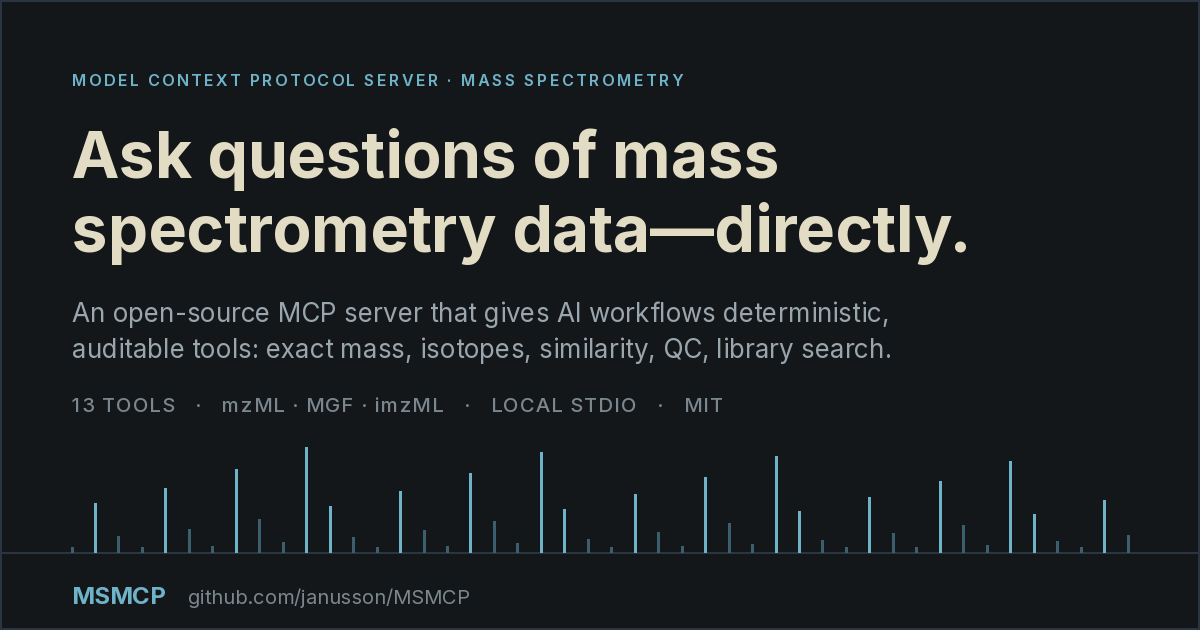
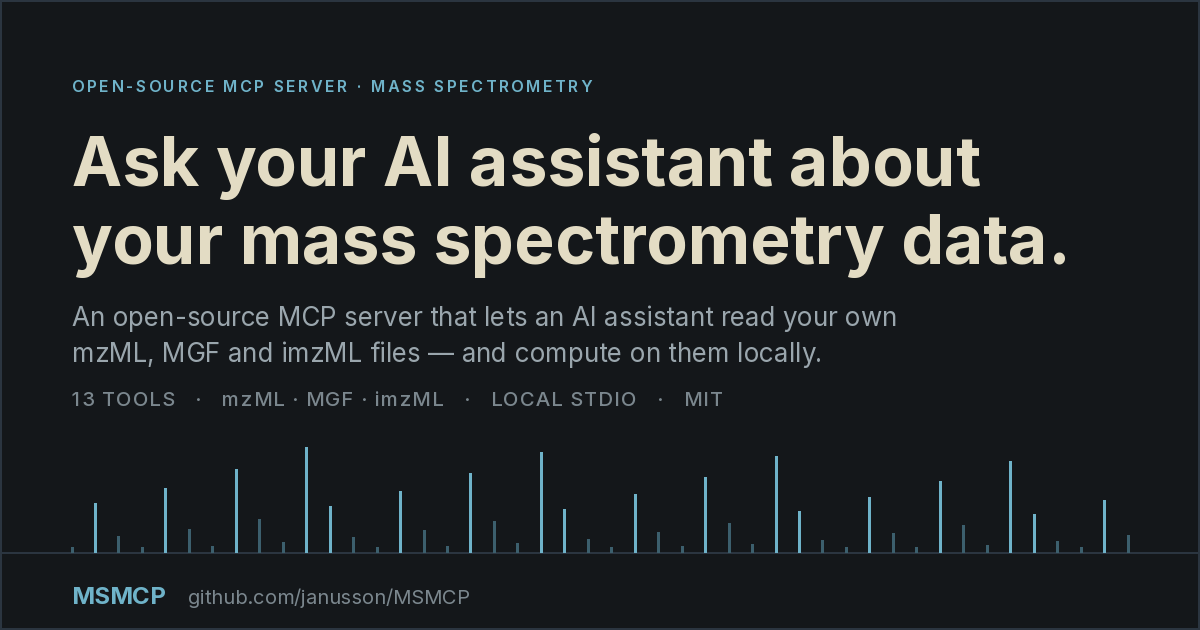
Say on the label what the server is for
The hero described the server's categories — inspection, QC, search — without
ever saying who uses it or with what. A reader who does not already know MCP had
to infer that this is a way to point an AI assistant at their own mass
spectrometry data.

The headline now names the actor and the object, the lede lists the operations in
the words a mass spectrometrist uses, and one short paragraph defines MCP for the
reader who has never met the acronym. The vision paragraph moves out of the hero
into the Why section, where it generalises what the example has just shown.

The social card is regenerated from a committed script rather than edited as an
opaque binary, and the contract check now asserts that the first screen names an
AI client.

diff --git a/scripts/make-og-card.py b/scripts/make-og-card.py
@@ -1,0 +1,102 @@
+#!/usr/bin/env python3
+"""Regenerate public/og.png — the 1200x630 link-preview card.
+
+Not part of the build: it runs by hand, only when the headline or the palette
+changes, and the result is committed.  It exists so the card is not an opaque
+binary that nobody can edit.
+
+    pip install pillow
+    INTER_TTF=/path/to/Inter.ttf python3 scripts/make-og-card.py
+
+The card is a designed graphic.  Its spectrum motif is decorative, deliberately
+unlabelled and not a plot of any dataset — the page's real figures are rendered
+from tool output in src/components/IsotopeFigure.astro.
+"""
+import os
+from PIL import Image, ImageDraw, ImageFont
+
+W, H = 1200, 630
+HEADLINE = [
+    "Ask your AI assistant about",
+    "your mass spectrometry data.",
+]
+SUBLINE = [
+    "An open-source MCP server that lets an AI assistant read your own",
+    "mzML, MGF and imzML files — and compute on them locally.",
+]
+CHIPLINE = "13 TOOLS   ·   mzML · MGF · imzML   ·   LOCAL STDIO   ·   MIT"
+EYEBROW = "OPEN-SOURCE MCP SERVER · MASS SPECTROMETRY"
+FOOTER = "github.com/janusson/MSMCP"
+
+# Path to Inter (variable TTF).  https://github.com/google/fonts/raw/main/ofl/inter/Inter%5Bopsz%2Cwght%5D.ttf
+FONT = os.environ.get("INTER_TTF", "/root/work/Inter.ttf")
+
+BG, LINE = (0x14, 0x17, 0x1A), (0x2B, 0x35, 0x40)
+INK_SOFT, INK_MUTE = (0x9A, 0xA6, 0xAD), (0x7B, 0x87, 0x8E)
+HEAD, ACC, ACC_DIM = (0xE3, 0xDC, 0xC4), (0x6F, 0xB3, 0xC9), (0x3C, 0x5F, 0x6D)
+
+
+def font(size, weight="Regular"):
+    f = ImageFont.truetype(FONT, size)
+    try:
+        f.set_variation_by_name(weight)
+    except Exception:
+        pass
+    return f
+
+
+def spaced(draw, xy, text, fnt, fill, tracking=0.0):
+    """Pillow has no letter-spacing; draw glyph by glyph."""
+    x, y = xy
+    for ch in text:
+        draw.text((x, y), ch, font=fnt, fill=fill)
+        x += draw.textlength(ch, font=fnt) + tracking
+
+
+def main():
+    img = Image.new("RGB", (W, H), BG)
+    d = ImageDraw.Draw(img)
+
+    spaced(d, (72, 76), EYEBROW, font(16, "SemiBold"), ACC, 2.4)
+
+    head = font(68, "Bold")
+    for i, line in enumerate(HEADLINE):
+        d.text((72, 120 + i * 78), line, font=head, fill=HEAD)
+
+    for i, line in enumerate(SUBLINE):
+        d.text((72, 300 + i * 36), line, font=font(26), fill=INK_SOFT)
+    spaced(d, (72, 386), CHIPLINE, font(20, "Medium"), INK_MUTE, 1.2)
+
+    # decorative spectrum motif
+    base_y, top_y = 552, 452
+    d.line([(0, base_y), (W, base_y)], fill=LINE, width=2)
+    for i in range(46):
+        h = 5 + int((((i * 37) % 53) / 52) ** 2.4 * (base_y - top_y))
+        x = 72 + i * (1128 - 72) / 45
+        d.line([(x, base_y), (x, base_y - h)], fill=ACC if h > 34 else ACC_DIM, width=3)
+
+    mark = font(24, "Bold")
+    d.text((72, 580), "MSMCP", font=mark, fill=ACC)
+    d.text((72 + d.textlength("MSMCP", font=mark) + 22, 584), FOOTER, font=font(20), fill=INK_MUTE)
+    d.rectangle([0, 0, W - 1, H - 1], outline=LINE, width=2)
+
+    # Nothing may run past the border: fail loudly rather than shipping a clipped card.
+    for line in HEADLINE:
+        width = d.textlength(line, font=head)
+        if width > W - 144:
+            raise SystemExit(f"headline line too wide: {width:.0f}px > {W - 144}px -- {line!r}")
+    for line in SUBLINE:
+        width = d.textlength(line, font=font(26))
+        if width > W - 144:
+            raise SystemExit(f"subline too wide: {width:.0f}px > {W - 144}px -- {line!r}")
+
+    out = os.path.join(os.path.dirname(__file__), "..", "public", "og.png")
+    img.save(out, optimize=True)
+    print(
+        f"wrote {os.path.normpath(out)} "
+        f"({img.size[0]}x{img.size[1]}, {os.path.getsize(out)} bytes)"
+    )
+
+
+if __name__ == "__main__":
+    main()
